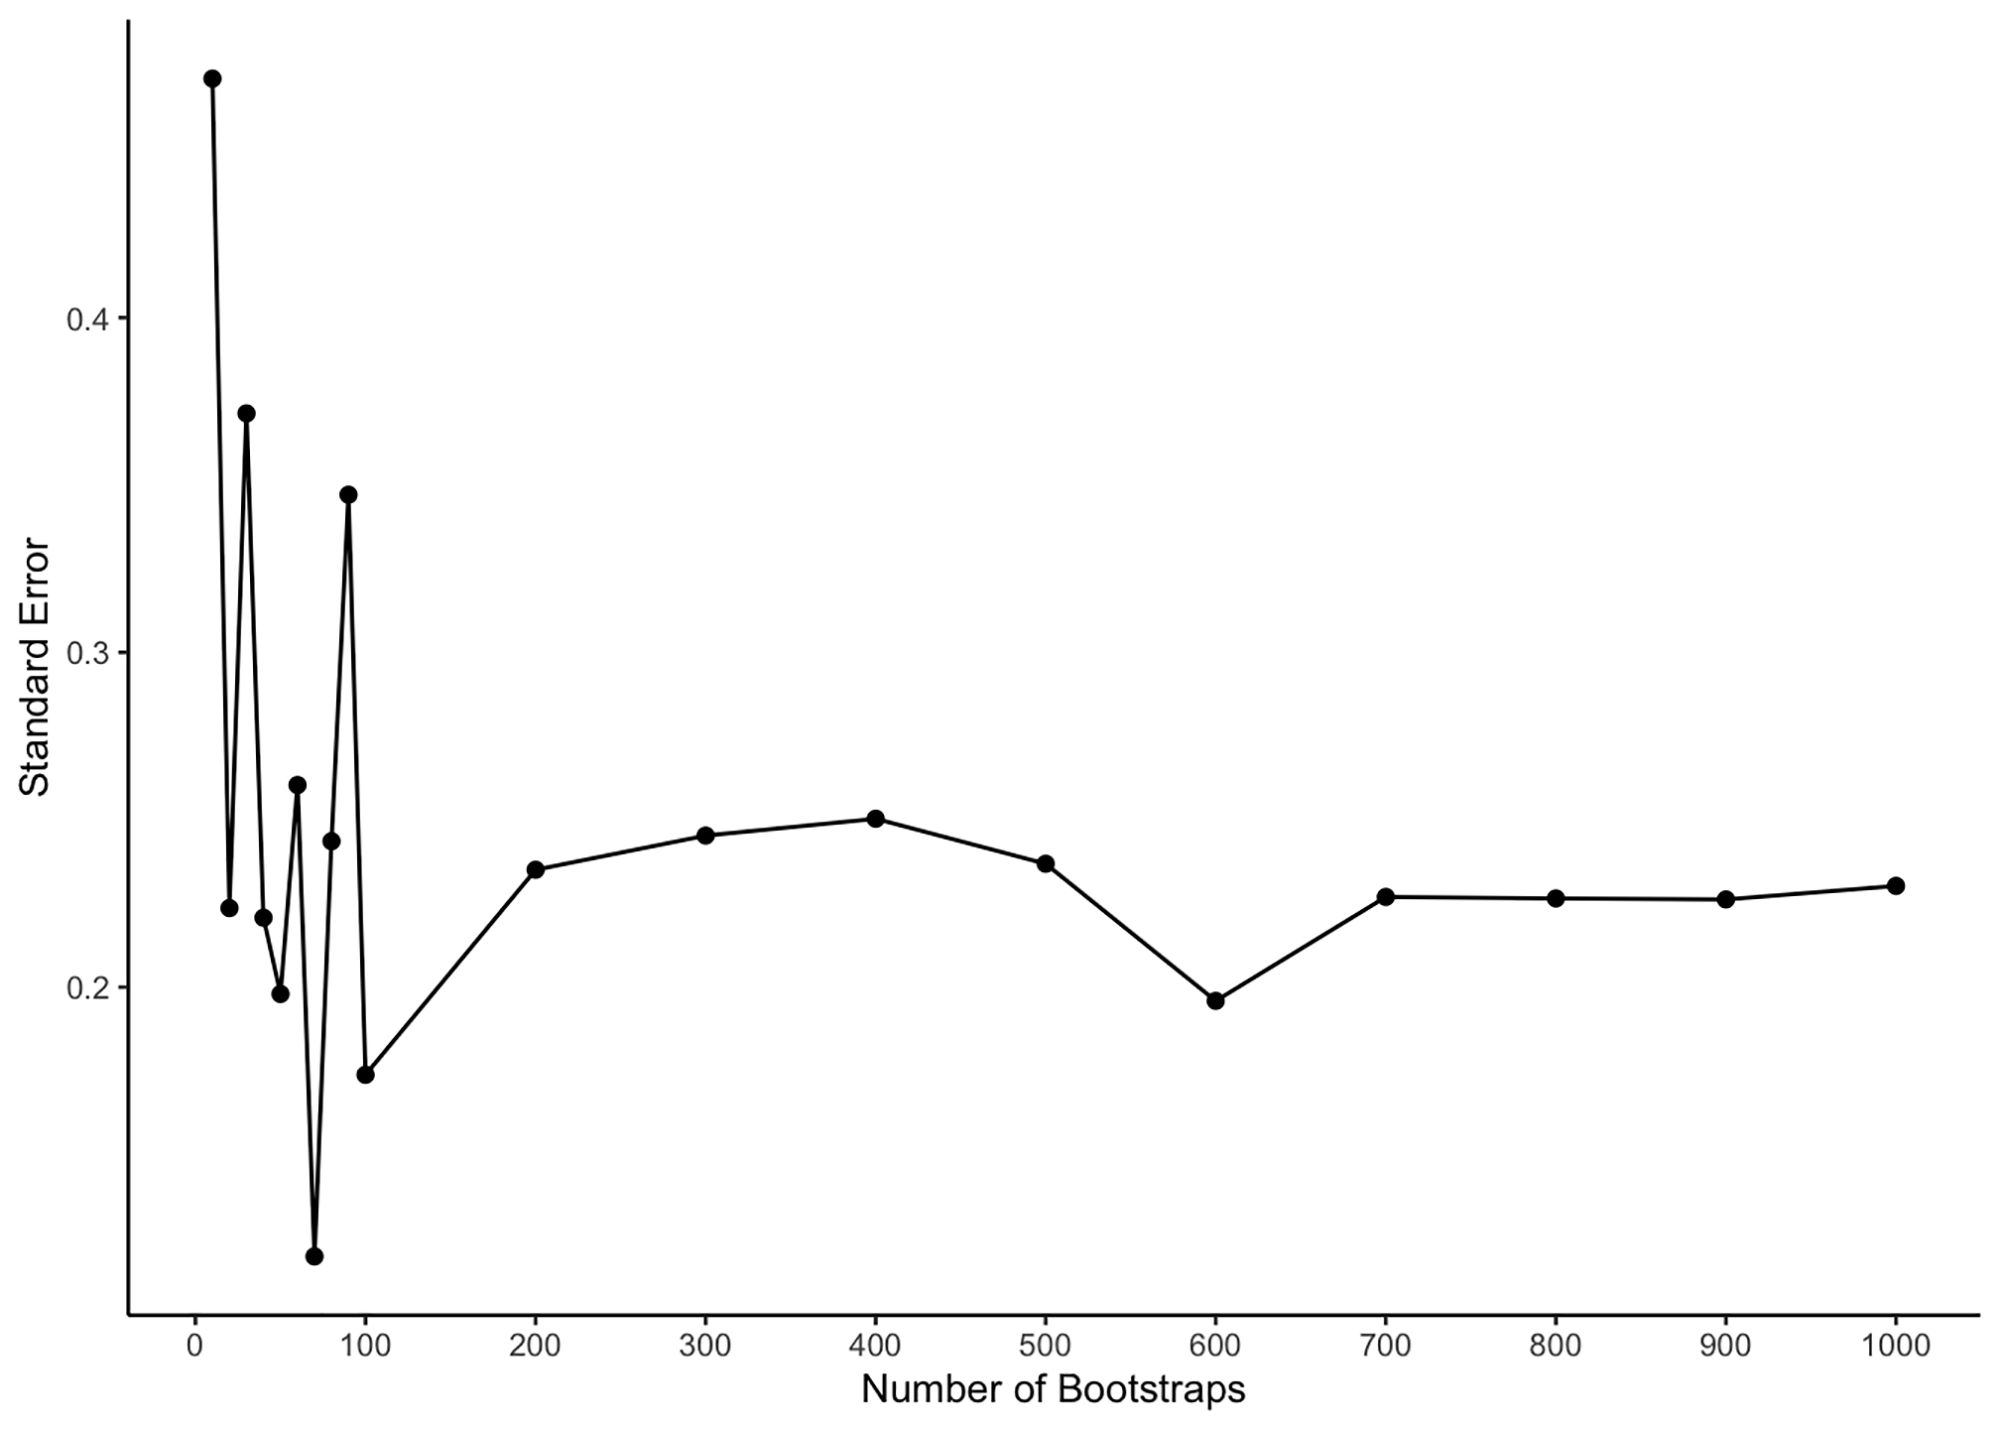
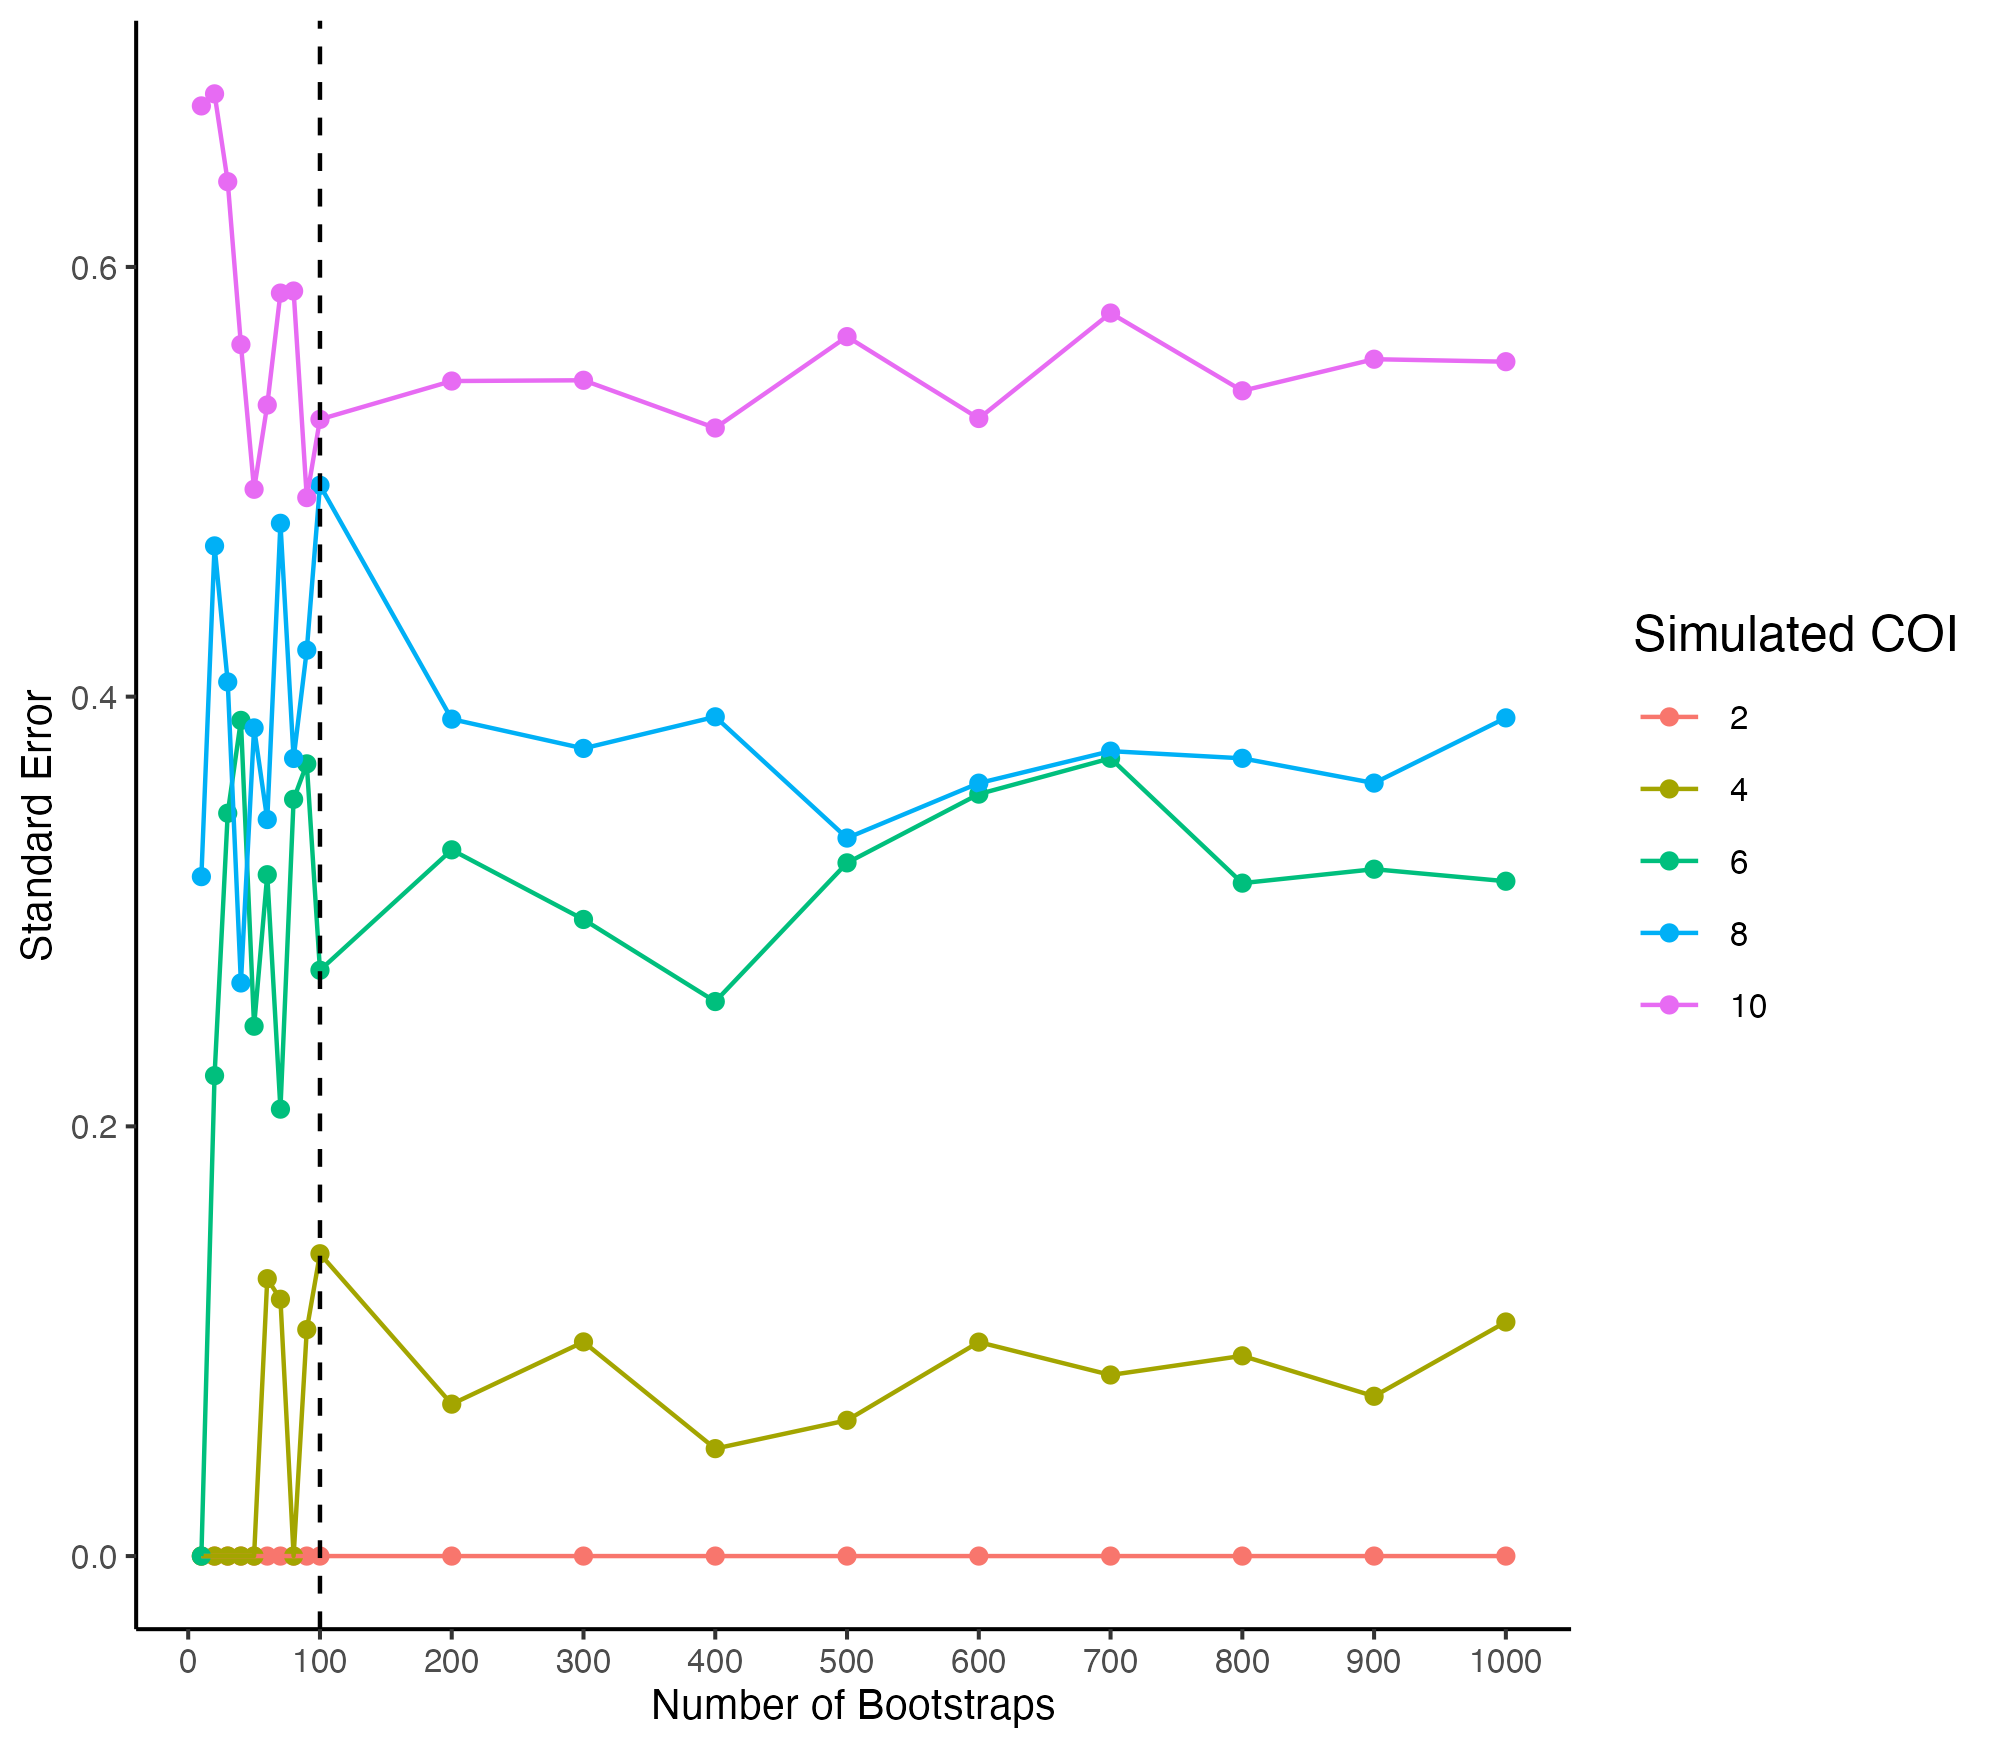
Add additional simulations

diff --git a/convergence/bootstrapping-convergence.html b/convergence/bootstrapping-convergence.html
@@ -2,7 +2,7 @@
 <html xmlns="http://www.w3.org/1999/xhtml" lang="en" xml:lang="en"><head>
 
 <meta charset="utf-8">
-<meta name="generator" content="quarto-1.2.269">
+<meta name="generator" content="quarto-1.2.335">
 
 <meta name="viewport" content="width=device-width, initial-scale=1.0, user-scalable=yes">
 
@@ -130,28 +130,41 @@ code span.wa { color: #60a0b0; font-weight: bold; font-style: italic; } /* Warni
 
 </header>
 
-<p>In this document, we explore the convergence of bootstrapping replicates. In other words, we aim to identify how many replicates are needed before our bootstrapping functions produce a relatively small confidence interval. We first run our bootstrapped functions with a varying number of replicates.</p>
-<div class="cell" data-hash="bootstrapping-convergence_cache/html/bootstrap_696c9b19f75104402d425ab0703a2abe">
-<div class="sourceCode cell-code" id="cb1"><pre class="sourceCode r code-with-copy"><code class="sourceCode r"><span id="cb1-1"><a href="#cb1-1" aria-hidden="true" tabindex="-1"></a>sim_data <span class="ot">&lt;-</span> <span class="fu">sim_biallelic</span>(<span class="at">coi =</span> <span class="dv">5</span>, <span class="at">plmaf =</span> <span class="fu">runif</span>(<span class="dv">1000</span>, <span class="dv">0</span>, <span class="fl">0.5</span>))</span>
-<span id="cb1-2"><a href="#cb1-2" aria-hidden="true" tabindex="-1"></a>n_bootstraps <span class="ot">&lt;-</span> <span class="fu">c</span>(<span class="fu">seq</span>(<span class="dv">10</span>, <span class="dv">100</span>, <span class="dv">10</span>), <span class="fu">seq</span>(<span class="dv">200</span>, <span class="dv">1000</span>, <span class="dv">100</span>))</span>
-<span id="cb1-3"><a href="#cb1-3" aria-hidden="true" tabindex="-1"></a>bootstraps <span class="ot">&lt;-</span> purrr<span class="sc">::</span><span class="fu">map_dfr</span>(n_bootstraps, <span class="cf">function</span>(rep) {</span>
-<span id="cb1-4"><a href="#cb1-4" aria-hidden="true" tabindex="-1"></a>  <span class="fu">bootstrap_ci</span>(sim_data, <span class="at">replicates =</span> rep)</span>
-<span id="cb1-5"><a href="#cb1-5" aria-hidden="true" tabindex="-1"></a>}) <span class="sc">%&gt;%</span> </span>
-<span id="cb1-6"><a href="#cb1-6" aria-hidden="true" tabindex="-1"></a>  tibble<span class="sc">::</span><span class="fu">add_column</span>(<span class="at">n_bootstraps =</span> n_bootstraps)</span></code><button title="Copy to Clipboard" class="code-copy-button"><i class="bi"></i></button></pre></div>
+<p>In this document, we explore the convergence of bootstrapping replicates. In other words, we aim to identify how many replicates are needed before our bootstrapping functions produce a relatively small confidence interval. We first run our bootstrapped functions with a varying number of replicates across different simulated COI values.</p>
+<div class="cell" data-hash="bootstrapping-convergence_cache/html/bootstrap_800d656563910819b881faff30b153d6">
+<div class="sourceCode cell-code" id="cb1"><pre class="sourceCode r code-with-copy"><code class="sourceCode r"><span id="cb1-1"><a href="#cb1-1" aria-hidden="true" tabindex="-1"></a>n_coi <span class="ot">&lt;-</span> <span class="fu">seq</span>(<span class="dv">2</span>, <span class="dv">10</span>, <span class="dv">2</span>)</span>
+<span id="cb1-2"><a href="#cb1-2" aria-hidden="true" tabindex="-1"></a>bootstraps <span class="ot">&lt;-</span> purrr<span class="sc">::</span><span class="fu">map_dfr</span>(n_coi, <span class="cf">function</span>(coi) {</span>
+<span id="cb1-3"><a href="#cb1-3" aria-hidden="true" tabindex="-1"></a>  sim_data <span class="ot">&lt;-</span> <span class="fu">sim_biallelic</span>(<span class="at">coi =</span> coi, <span class="at">plmaf =</span> <span class="fu">runif</span>(<span class="dv">1000</span>, <span class="dv">0</span>, <span class="fl">0.5</span>))</span>
+<span id="cb1-4"><a href="#cb1-4" aria-hidden="true" tabindex="-1"></a>  n_bootstraps <span class="ot">&lt;-</span> <span class="fu">c</span>(<span class="fu">seq</span>(<span class="dv">10</span>, <span class="dv">100</span>, <span class="dv">10</span>), <span class="fu">seq</span>(<span class="dv">200</span>, <span class="dv">1000</span>, <span class="dv">100</span>))</span>
+<span id="cb1-5"><a href="#cb1-5" aria-hidden="true" tabindex="-1"></a>  purrr<span class="sc">::</span><span class="fu">map_dfr</span>(n_bootstraps, <span class="cf">function</span>(rep) {</span>
+<span id="cb1-6"><a href="#cb1-6" aria-hidden="true" tabindex="-1"></a>    <span class="fu">bootstrap_ci</span>(sim_data, <span class="at">seq_error =</span> <span class="dv">0</span>, <span class="at">replicates =</span> rep)</span>
+<span id="cb1-7"><a href="#cb1-7" aria-hidden="true" tabindex="-1"></a>  }) <span class="sc">%&gt;%</span> </span>
+<span id="cb1-8"><a href="#cb1-8" aria-hidden="true" tabindex="-1"></a>    tibble<span class="sc">::</span><span class="fu">add_column</span>(<span class="at">n_bootstraps =</span> n_bootstraps)</span>
+<span id="cb1-9"><a href="#cb1-9" aria-hidden="true" tabindex="-1"></a>}) <span class="sc">%&gt;%</span> </span>
+<span id="cb1-10"><a href="#cb1-10" aria-hidden="true" tabindex="-1"></a>  dplyr<span class="sc">::</span><span class="fu">mutate</span>(<span class="at">sim_coi =</span> <span class="fu">rep</span>(n_coi, <span class="at">each =</span> <span class="dv">19</span>))</span></code><button title="Copy to Clipboard" class="code-copy-button"><i class="bi"></i></button></pre></div>
 </div>
-<p>Following running our algorithm, we can next plot our data with the x-axis representing the number of bootstrap replicates used and the y-axis representing the standard error.</p>
-<div class="cell" data-hash="bootstrapping-convergence_cache/html/convergence_a476926f4e76d0170afdf791b9d96e26">
+<p>Following running our algorithm, we can next plot our data with the x-axis representing the number of bootstrap replicates used and the y-axis representing the standard error. The color of each line indicates the COI with which data was simulated.</p>
+<div class="cell" data-hash="bootstrapping-convergence_cache/html/convergence_df7ac65142106f84ee04874b79d0b253">
 <div class="sourceCode cell-code" id="cb2"><pre class="sourceCode r code-with-copy"><code class="sourceCode r"><span id="cb2-1"><a href="#cb2-1" aria-hidden="true" tabindex="-1"></a>bootstraps <span class="sc">%&gt;%</span> </span>
-<span id="cb2-2"><a href="#cb2-2" aria-hidden="true" tabindex="-1"></a>  dplyr<span class="sc">::</span><span class="fu">filter</span>(std.error <span class="sc">!=</span> <span class="dv">0</span>) <span class="sc">%&gt;%</span> </span>
-<span id="cb2-3"><a href="#cb2-3" aria-hidden="true" tabindex="-1"></a>  <span class="fu">ggplot</span>(<span class="fu">aes</span>(<span class="at">x =</span> n_bootstraps, <span class="at">y =</span> std.error)) <span class="sc">+</span></span>
+<span id="cb2-2"><a href="#cb2-2" aria-hidden="true" tabindex="-1"></a>  dplyr<span class="sc">::</span><span class="fu">mutate</span>(<span class="at">sim_coi =</span> forcats<span class="sc">::</span><span class="fu">as_factor</span>(sim_coi)) <span class="sc">%&gt;%</span> </span>
+<span id="cb2-3"><a href="#cb2-3" aria-hidden="true" tabindex="-1"></a>  <span class="fu">ggplot</span>(<span class="fu">aes</span>(<span class="at">x =</span> n_bootstraps, <span class="at">y =</span> std.error, <span class="at">color =</span> sim_coi)) <span class="sc">+</span></span>
 <span id="cb2-4"><a href="#cb2-4" aria-hidden="true" tabindex="-1"></a>  <span class="fu">geom_point</span>() <span class="sc">+</span></span>
 <span id="cb2-5"><a href="#cb2-5" aria-hidden="true" tabindex="-1"></a>  <span class="fu">geom_line</span>() <span class="sc">+</span></span>
-<span id="cb2-6"><a href="#cb2-6" aria-hidden="true" tabindex="-1"></a>  <span class="fu">scale_x_continuous</span>(<span class="at">breaks =</span> <span class="fu">seq</span>(<span class="dv">0</span>, <span class="dv">1000</span>, <span class="dv">100</span>)) <span class="sc">+</span></span>
-<span id="cb2-7"><a href="#cb2-7" aria-hidden="true" tabindex="-1"></a>  <span class="fu">labs</span>(<span class="at">y =</span> <span class="st">"Standard Error"</span>, <span class="at">x =</span> <span class="st">"Number of Bootstraps"</span>) <span class="sc">+</span></span>
-<span id="cb2-8"><a href="#cb2-8" aria-hidden="true" tabindex="-1"></a>  <span class="fu">theme_coiaf</span>()</span></code><button title="Copy to Clipboard" class="code-copy-button"><i class="bi"></i></button></pre></div>
+<span id="cb2-6"><a href="#cb2-6" aria-hidden="true" tabindex="-1"></a>  <span class="fu">geom_vline</span>(<span class="at">xintercept =</span> <span class="dv">100</span>, <span class="at">linetype =</span> <span class="st">"dashed"</span>) <span class="sc">+</span></span>
+<span id="cb2-7"><a href="#cb2-7" aria-hidden="true" tabindex="-1"></a>  <span class="fu">scale_x_continuous</span>(<span class="at">breaks =</span> <span class="fu">seq</span>(<span class="dv">0</span>, <span class="dv">1000</span>, <span class="dv">100</span>)) <span class="sc">+</span></span>
+<span id="cb2-8"><a href="#cb2-8" aria-hidden="true" tabindex="-1"></a>  <span class="fu">labs</span>(<span class="at">y =</span> <span class="st">"Standard Error"</span>, <span class="at">x =</span> <span class="st">"Number of Bootstraps"</span>, <span class="at">color =</span> <span class="st">"Simulated COI"</span>) <span class="sc">+</span></span>
+<span id="cb2-9"><a href="#cb2-9" aria-hidden="true" tabindex="-1"></a>  <span class="fu">theme_coiaf</span>()</span></code><button title="Copy to Clipboard" class="code-copy-button"><i class="bi"></i></button></pre></div>
 <div class="cell-output-display">
 <p><img src="bootstrapping-convergence_files/figure-html/convergence-1.png" class="img-fluid" width="672"></p>
 </div>
+<div class="sourceCode cell-code" id="cb3"><pre class="sourceCode r code-with-copy"><code class="sourceCode r"><span id="cb3-1"><a href="#cb3-1" aria-hidden="true" tabindex="-1"></a><span class="fu">ggsave</span>(</span>
+<span id="cb3-2"><a href="#cb3-2" aria-hidden="true" tabindex="-1"></a>  <span class="at">filename =</span> here<span class="sc">::</span><span class="fu">here</span>(<span class="st">"convergence"</span>, <span class="st">"bootstrapping-convergence.png"</span>),</span>
+<span id="cb3-3"><a href="#cb3-3" aria-hidden="true" tabindex="-1"></a>  <span class="at">device =</span> <span class="st">"png"</span>, </span>
+<span id="cb3-4"><a href="#cb3-4" aria-hidden="true" tabindex="-1"></a>  <span class="at">width =</span> <span class="dv">2000</span>, </span>
+<span id="cb3-5"><a href="#cb3-5" aria-hidden="true" tabindex="-1"></a>  <span class="at">height =</span> <span class="dv">1750</span>, </span>
+<span id="cb3-6"><a href="#cb3-6" aria-hidden="true" tabindex="-1"></a>  <span class="at">units =</span> <span class="st">"px"</span>, </span>
+<span id="cb3-7"><a href="#cb3-7" aria-hidden="true" tabindex="-1"></a>  <span class="at">dpi =</span> <span class="st">"print"</span></span>
+<span id="cb3-8"><a href="#cb3-8" aria-hidden="true" tabindex="-1"></a>)</span></code><button title="Copy to Clipboard" class="code-copy-button"><i class="bi"></i></button></pre></div>
 </div>
 <p>Looking at the figure produced, we note that after 100 bootstrap iterations there is little difference in the standard error, even as the number of bootstraps increases. As a result, we can set the default number of replicates in our bootstrapping function to 100.</p>
 
